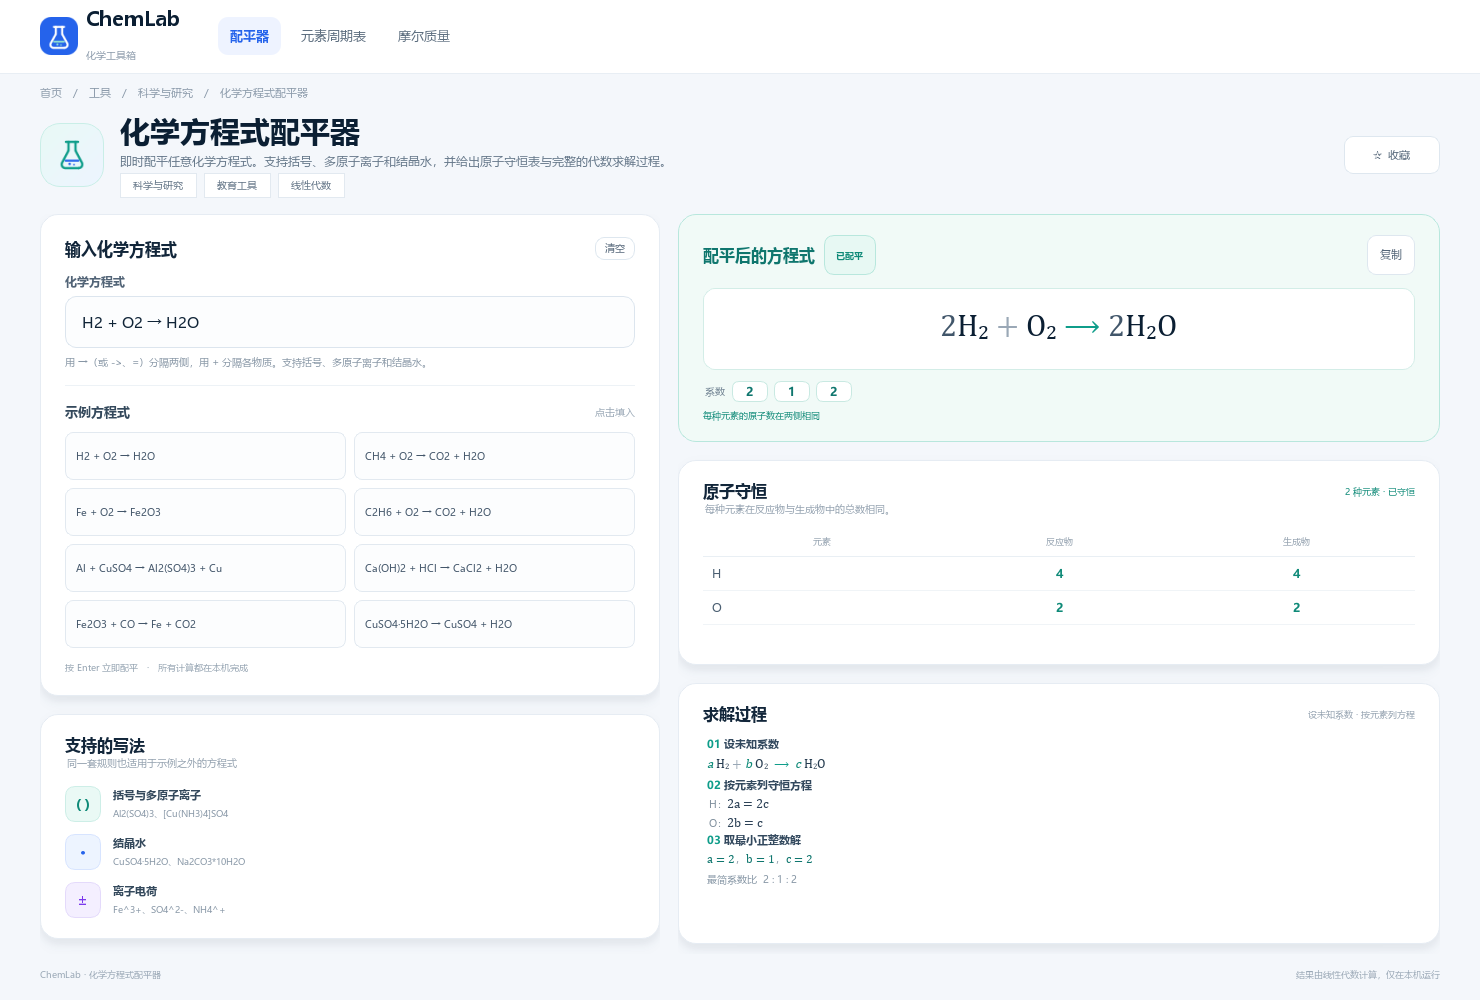
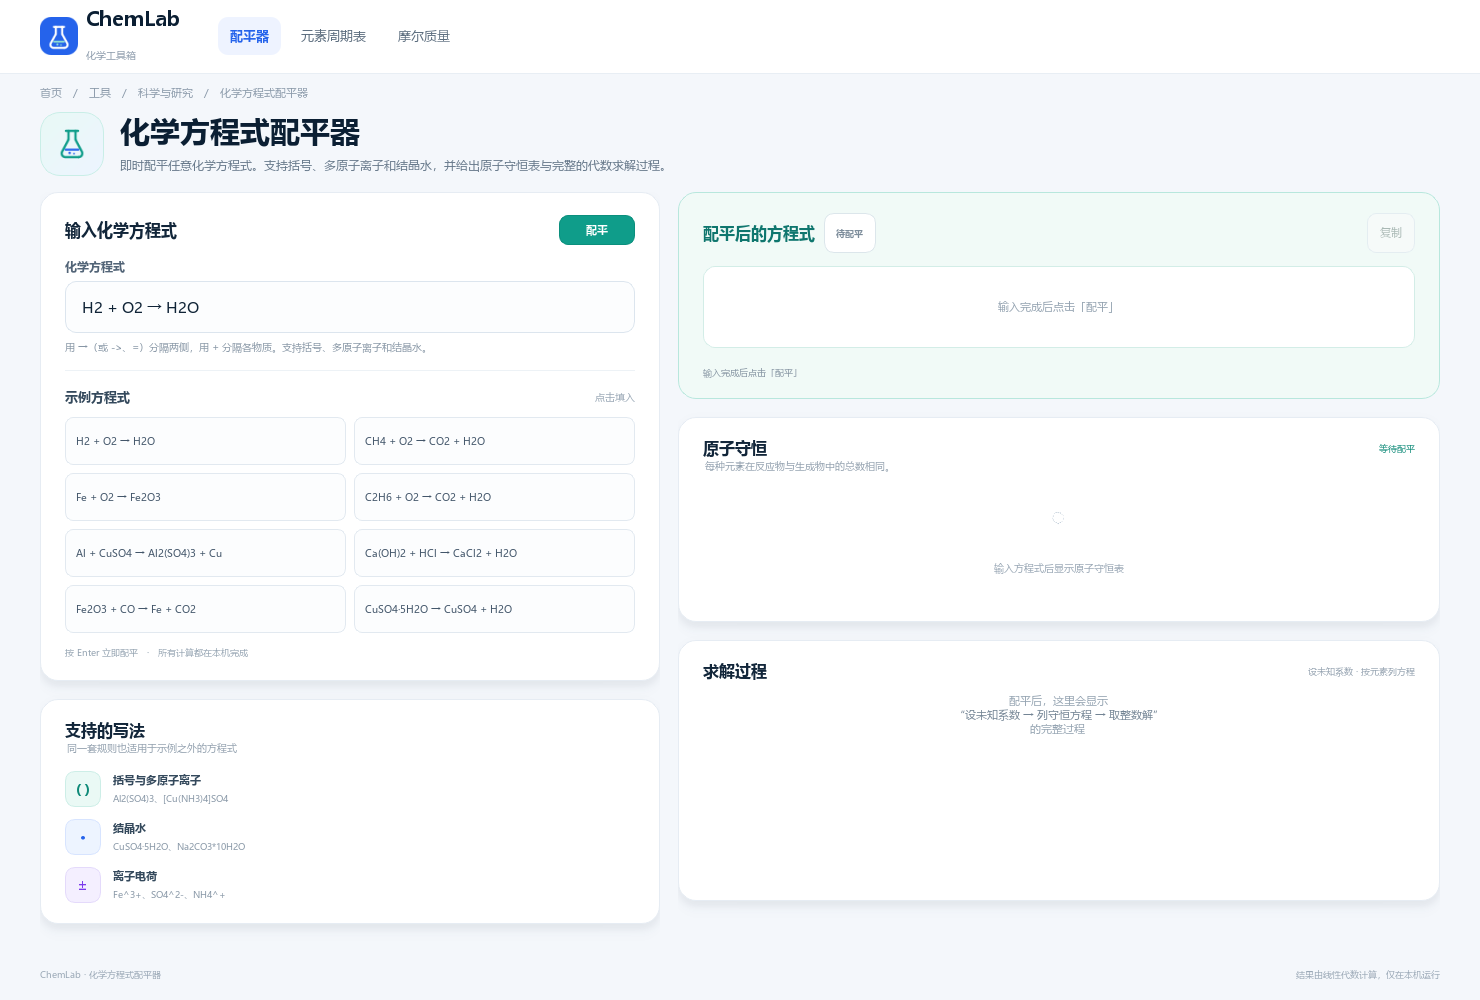
ui修改

diff --git a/src/ui/main_window.py b/src/ui/main_window.py
@@ -73,7 +73,6 @@ class MainWindow(QMainWindow):
         self._result: BalanceResult | None = None
         self._toast_animation: QPropertyAnimation | None = None
         self._toast_effect: QGraphicsOpacityEffect | None = None
-        self._favorite = False
         self._periodic_window = None
 
         self._load_designer_ui()
@@ -82,8 +81,8 @@ class MainWindow(QMainWindow):
         self._configure_widgets()
         self._connect_signals()
 
+        # 首屏预填一个示例，但不在启动时自动计算；用户点击“配平”后再出结果。
         self.input.setText(EXAMPLES[0])
-        self._run_balance()
 
     # ------------------------------------------------------------------ UI
     def _load_designer_ui(self) -> None:
@@ -111,9 +110,8 @@ class MainWindow(QMainWindow):
             return found
 
         self.input = widget("equationInput", QLineEdit)
-        self.clear_button = widget("clearButton", QPushButton)
+        self.balance_button = widget("balanceButton", QPushButton)
         self.copy_button = widget("copyButton", QPushButton)
-        self.favorite_button = widget("favoriteButton", QPushButton)
         self.equation_label = widget("equationLabel", QLabel)
         self.status_pill = widget("statusPill", QLabel)
         self.result_meta = widget("resultMeta", QLabel)
@@ -149,7 +147,6 @@ class MainWindow(QMainWindow):
         self.status_pill.setProperty("state", "idle")
         self.result_meta.setProperty("state", "idle")
         self.copy_button.setEnabled(False)
-        self.favorite_button.setProperty("active", False)
         self.coefficient_row.setVisible(False)
         self.conservation_stack.setCurrentIndex(0)
         self.conservation_stack.setFixedHeight(120)
@@ -157,6 +154,7 @@ class MainWindow(QMainWindow):
 
         self.input.setAccessibleName("化学方程式输入框")
         self.input.setClearButtonEnabled(False)
+        self.balance_button.setCursor(Qt.PointingHandCursor)
 
         page = self.findChild(QWidget, "page")
         if page is not None and page.layout() is not None:
@@ -193,11 +191,6 @@ class MainWindow(QMainWindow):
 
         self._shortcut_clear = QShortcut(QKeySequence("Ctrl+L"), self)
         self._shortcut_clear.activated.connect(self._clear)
-
-        self._debounce = QTimer(self)
-        self._debounce.setSingleShot(True)
-        self._debounce.setInterval(320)
-        self._debounce.timeout.connect(self._run_balance)
 
         self._toast = QLabel(self)
         self._toast.setObjectName("toast")
@@ -242,11 +235,10 @@ class MainWindow(QMainWindow):
         widget.setGraphicsEffect(effect)
 
     def _connect_signals(self) -> None:
-        self.input.textChanged.connect(self._on_text_changed)
+        self.input.textChanged.connect(self._mark_pending)
         self.input.returnPressed.connect(self._run_balance)
-        self.clear_button.clicked.connect(self._clear)
+        self.balance_button.clicked.connect(self._run_balance)
         self.copy_button.clicked.connect(self._copy_result)
-        self.favorite_button.clicked.connect(self._toggle_favorite)
 
         for index in range(1, 9):
             button = self.findChild(QPushButton, f"exampleButton{index}")
@@ -270,13 +262,27 @@ class MainWindow(QMainWindow):
             nav_periodic.clicked.connect(self._open_periodic_table)
 
     # -------------------------------------------------------------- states
-    def _on_text_changed(self, _text: str) -> None:
-        self._debounce.start()
+    def _mark_pending(self, _text: str) -> None:
+        """输入变化时只标记“待配平”，不自动计算。"""
+        self._result = None
+        self.equation_label.setText(
+            render.placeholder_equation_html("输入完成后点击「配平」")
+        )
+        self.coefficient_row.setVisible(False)
+        self.copy_button.setEnabled(False)
+        self._set_status("待配平", "idle")
+        self._set_meta("输入完成后点击「配平」", "idle")
+        self._clear_table()
+        self.conservation_stack.setCurrentIndex(0)
+        self.conservation_stack.setFixedHeight(120)
+        self.conservation_hint.setText("等待配平")
+        self.steps_browser.setHtml(render.steps_placeholder_html())
+        self._clear_chips()
+        self._schedule_page_sync()
 
     def _use_example(self, index: int) -> None:
         self.input.setText(EXAMPLES[index])
         self.input.setFocus()
-        self._run_balance()
 
     def _clear(self) -> None:
         self.input.clear()
@@ -462,13 +468,6 @@ class MainWindow(QMainWindow):
         self._copy_timer.start(1500)
         self._show_toast("配平结果已复制到剪贴板")
 
-    def _toggle_favorite(self) -> None:
-        self._favorite = not self._favorite
-        self.favorite_button.setText("★  已收藏" if self._favorite else "☆  收藏")
-        self.favorite_button.setProperty("active", self._favorite)
-        self._set_dynamic_state(self.favorite_button, "idle")
-        self._show_toast("已收藏这个工具" if self._favorite else "已取消收藏")
-
     def _open_periodic_table(self) -> None:
         if self._periodic_window is None:
             from .periodic_window import PeriodicTableWindow
@@ -552,7 +551,6 @@ class MainWindow(QMainWindow):
             self._schedule_page_sync()
 
     def closeEvent(self, event) -> None:  # noqa: N802 - Qt API
-        self._debounce.stop()
         self._toast_timer.stop()
         self._copy_timer.stop()
         if self._periodic_window is not None:

diff --git a/UI_README.md b/UI_README.md
@@ -32,7 +32,7 @@ Windows 可以双击 `run.bat`。
 - 样式：`src/ui/styles.qss`
 - 通过 `src/ui/legacy_adapter.py` 调用原核心
 
-主界面已去掉右侧“相关工具”栏，保留输入、示例、配平结果、原子守恒和求解过程。
+主界面已去掉右侧“相关工具”栏，保留输入、示例、配平结果、原子守恒和求解过程。输入过程中只显示“待配平”，需要点击右上角“配平”按钮或按 Enter 后才开始计算，不会边输入边配平。
 
 ### 元素周期表
 
